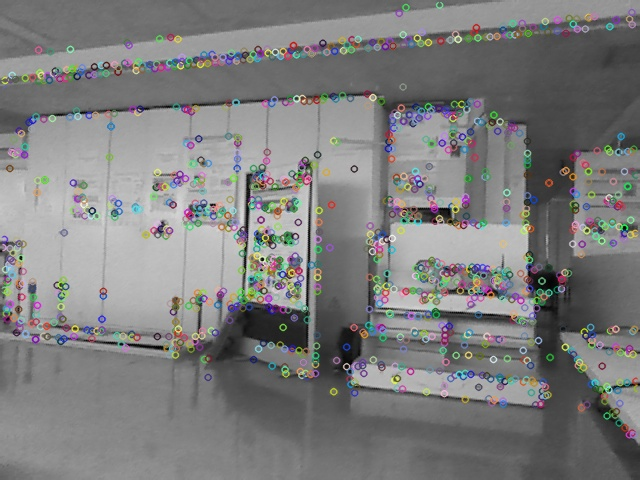
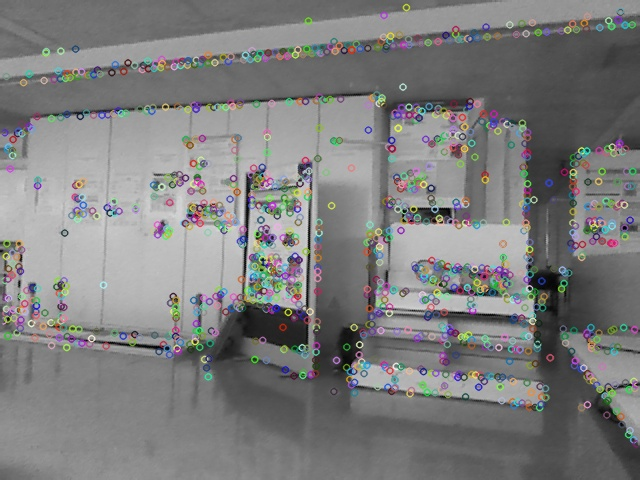
procrustes on the way

diff --git a/msgfetcher.py b/msgfetcher.py
@@ -10,8 +10,10 @@ from cv_bridge import CvBridge
 from matplotlib import pyplot as plt
 import open3d
 import converter
+import procrustes as proc
+import time
 
-import scipy
+from scipy import spatial
 
 
 def main():
@@ -54,25 +56,25 @@ def main():
     rgb[cameraNames[1]] = br.imgmsg_to_cv2(rgbros, desired_encoding="passthrough")
     depth[cameraNames[1]] = br.imgmsg_to_cv2(depthros, desired_encoding="passthrough")
 
-
+   
 
     #convert depth image to 3D vector
     for name in cameraNames:
 
         #fetches kps and descriptors of camera 1
-        kp[name], des[name]  = SIFTer(rgb,name)
+        kp[name], des[name]  = SIFTer(rgb[name],name)
 
         #converts into 3d points
         XYZ[name] = depthimg2xyz(depth[name],camInfo.K)
-
+        
         #reshape - straighten vectors
         XYZ[name] = XYZ[name].reshape(640*480,-1)
         rgbline[name] = rgb[name].reshape(640*480,-1)
             
         #make point cloud    
         PClouds[name] = open3d.PointCloud()
-        PClouds[name].points = open3d.Vector3dVector(XYZ)
-        PClouds[name].colors = open3d.Vector3dVector(rgbline/256.0) #range is 0-1 hence the division
+        PClouds[name].points = open3d.Vector3dVector(XYZ[name])
+        PClouds[name].colors = open3d.Vector3dVector(rgbline[name]/256.0) #range is 0-1 hence the division
    
 
     #initializes bruteforce matcher 
@@ -81,47 +83,82 @@ def main():
     #finds 2 nearest results(k=2)
     matches = bf.knnMatch( des[cameraNames[0]], des[cameraNames[1]], k=2)
     
-    print("Transformation Done")
+ 
+
+    #only works for 2 cameras starting here
+
 
     # Apply ratio test
-    good = []
+    match1 = []
+    match2 = []
     
-    differenceRatio = 0.75  #is supposed to be around 0.25
+    differenceRatio = 0.25  #is supposed to be around 0.25
 
     #only works for k=2 ( m,n are 2 variables)
     for m,n in matches:
 
         #se a distancia entre os descritores mais proximos e os segundos mais proximo for grande o suficiente (25% menor)
         if m.distance < (1-differenceRatio)*n.distance:
-            good.append(m) #was  good.append([m]) 1.0
+            match1.append(m.queryIdx) #was  good.append([m]) 1.0   was  good.append(m) 1.2
+            match2.append(m.trainIdx)
 
 
     #queryIdx - The index or row of the kp1 interest point matrix that matches
     #trainIdx - The index or row of the kp2 interest point matrix that matches
     
+    #this section is super slow make this matricial stuff
+
+    goodkp1 = []
+
+    #convert 2D map to array map
+    for m in match1:
+        x, y =  kp[cameraNames[0]][m].pt
+        goodkp1.append(y*480+x)  #MIGHT NOT BE RIGHT
+
+    
+    goodkp2 = []
+    #convert 2D map to array map
+    for m in match2:
+        x, y =  kp[cameraNames[1]][m].pt
+        goodkp2.append(y*480+x) #MIGHT NOT BE RIGHT
+
+    goodkp1 = np.rint(goodkp1)
+    goodkp2 = np.rint(goodkp2)
+
+    goodkp1 = goodkp1.astype(int)
+    goodkp2 = goodkp2.astype(int)
+
+    
+    #apenas usa pontos emparelhados
+    XYZ1 = XYZ[cameraNames[0]][goodkp1] #nmpy round to int
+    XYZ2 = XYZ[cameraNames[1]][goodkp2] #nmpy round to int
+    
+    
+    #inicializa highscore
+    high_score_inliers = 0
+
     #RANSAC Loop
 
-    #only works for 2 cameras starting here
-
-
-    #fetch 4 points from each camera
+    
 
     #Procrustes
+    perm = np.random.permutation(len(match1))
+    perm = perm[0:4]
 
-    #x ,y = kp1[500].pt
-    #print(x,y)
-    x=int(round(x))
-    y=int(round(y)) #just doing int would floor instead of round
 
-   
-    # cv2.drawMatchesKnn expects list of lists as matches.
-    #img3 = cv2.drawMatches(cv_rgb1,kp1,cv_rgb2,kp2,good,None,flags=2) #was drawMatchesKnn 1.0
+    #fetch 4  3D points from each camera
+    P1 = XYZ1[perm,:]
+    P2 = XYZ2[perm,:]
+
+    _,_,proctf = proc.procrustes(P1,P2,scaling=False,reflection=False)            
+    rot = proctf["rotation"]
+    XYZ2in1=np.dot(XYZ2,rot.transpose())+   (np.ones([len(XYZ2),1])*proctf["translation"])
     
-            
-
- 
-
     
+    temp = XYZ2in1 - XYZ1
+    norms = np.linalg.norm(temp,axis=1)
+
+    print(norms)
     #fig = plt.figure()
     #plt.imshow(img3)
     #plt.show()
@@ -137,8 +174,6 @@ def depthimg2xyz(depthimg,K):
     cx=K[2]
     cy=K[5]
     
-    print(fx,fy)
-
     depthcoords = np.zeros((480, 640,3)) #height by width  by 3(X,Y,Z)
 
     u,v =np.indices((480,640))

diff --git a/procrustes.py b/procrustes.py
@@ -1,0 +1,116 @@
+import numpy as np
+
+#copy of matlab procrustes function
+#https://stackoverflow.com/questions/18925181/procrustes-analysis-with-numpy
+def procrustes(X, Y, scaling=True, reflection='best'):
+    """
+    A port of MATLAB's `procrustes` function to Numpy.
+
+    Procrustes analysis determines a linear transformation (translation,
+    reflection, orthogonal rotation and scaling) of the points in Y to best
+    conform them to the points in matrix X, using the sum of squared errors
+    as the goodness of fit criterion.
+
+        d, Z, [tform] = procrustes(X, Y)
+
+    Inputs:
+    ------------
+    X, Y    
+        matrices of target and input coordinates. they must have equal
+        numbers of  points (rows), but Y may have fewer dimensions
+        (columns) than X.
+
+    scaling 
+        if False, the scaling component of the transformation is forced
+        to 1
+
+    reflection
+        if 'best' (default), the transformation solution may or may not
+        include a reflection component, depending on which fits the data
+        best. setting reflection to True or False forces a solution with
+        reflection or no reflection respectively.
+
+    Outputs
+    ------------
+    d       
+        the residual sum of squared errors, normalized according to a
+        measure of the scale of X, ((X - X.mean(0))**2).sum()
+
+    Z
+        the matrix of transformed Y-values
+
+    tform   
+        a dict specifying the rotation, translation and scaling that
+        maps X --> Y
+
+    """
+
+    n,m = X.shape
+    ny,my = Y.shape
+
+    muX = X.mean(0)
+    muY = Y.mean(0)
+
+    X0 = X - muX
+    Y0 = Y - muY
+
+    ssX = (X0**2.).sum()
+    ssY = (Y0**2.).sum()
+
+    # centred Frobenius norm
+    normX = np.sqrt(ssX)
+    normY = np.sqrt(ssY)
+
+    # scale to equal (unit) norm
+    X0 /= normX
+    Y0 /= normY
+
+    if my < m:
+        Y0 = np.concatenate((Y0, np.zeros(n, m-my)),0)
+
+    # optimum rotation matrix of Y
+    A = np.dot(X0.T, Y0)
+    U,s,Vt = np.linalg.svd(A,full_matrices=False)
+    V = Vt.T
+    T = np.dot(V, U.T)
+
+    if reflection is not 'best':
+
+        # does the current solution use a reflection?
+        have_reflection = np.linalg.det(T) < 0
+
+        # if that's not what was specified, force another reflection
+        if reflection != have_reflection:
+            V[:,-1] *= -1
+            s[-1] *= -1
+            T = np.dot(V, U.T)
+
+    traceTA = s.sum()
+
+    if scaling:
+
+        # optimum scaling of Y
+        b = traceTA * normX / normY
+
+        # standarised distance between X and b*Y*T + c
+        d = 1 - traceTA**2
+
+        # transformed coords
+        Z = normX*traceTA*np.dot(Y0, T) + muX
+
+    else:
+        b = 1
+        d = 1 + ssY/ssX - 2 * traceTA * normY / normX
+        Z = normY*np.dot(Y0, T) + muX
+
+    # transformation matrix
+    if my < m:
+        T = T[:my,:]
+    c = muX - b*np.dot(muY, T)
+
+    #transformation values 
+    tform = {'rotation':T, 'scale':b, 'translation':c}
+
+    return d, Z, tform
+
+
